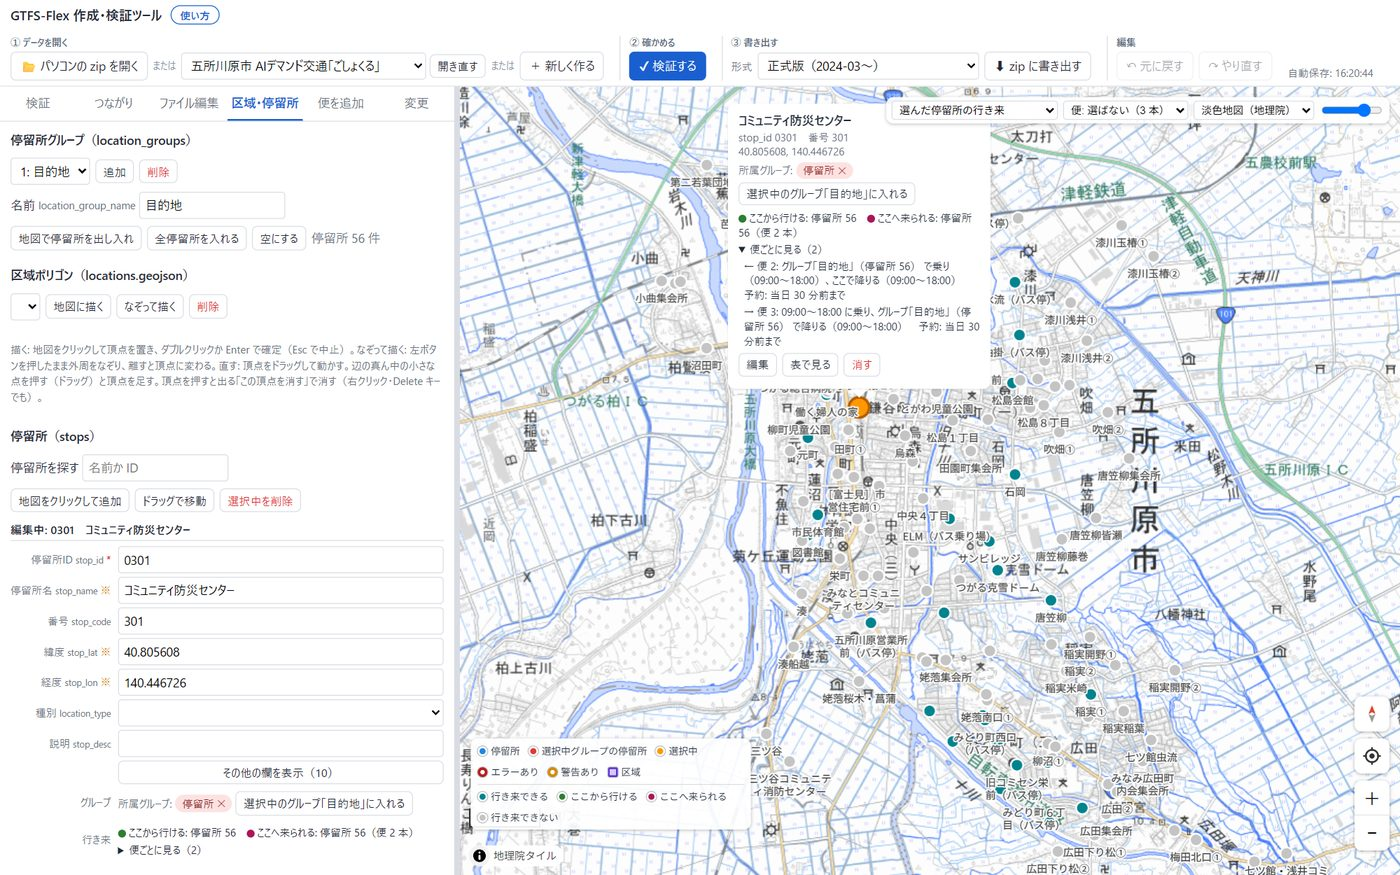
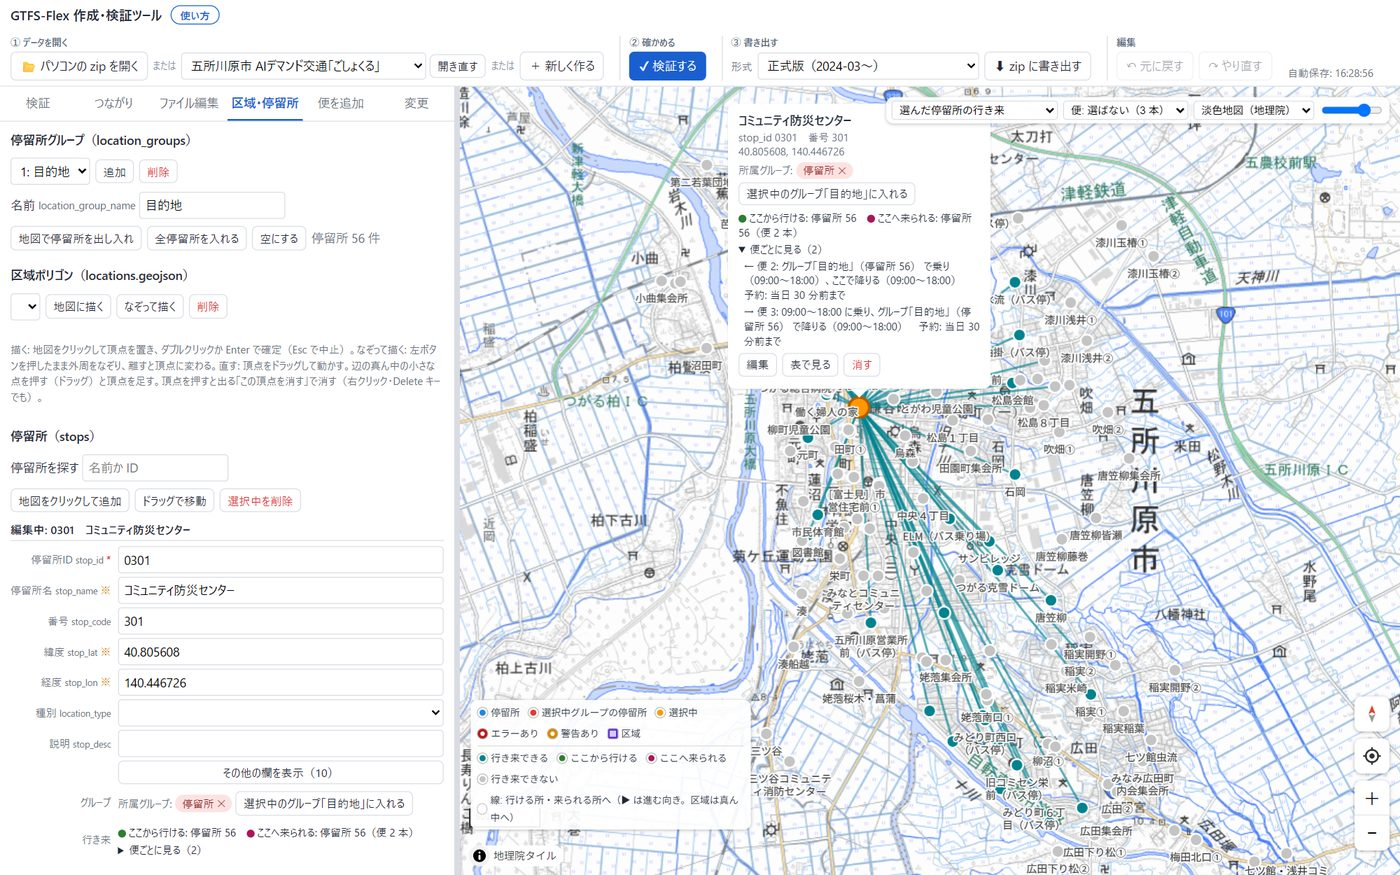
停留所の行き来を線で出す

Changed region(s): [[0.5836, 0.4011, 0.7679, 0.8949], [0.3379, 0.8023, 0.5529, 0.9566], [0.7371, 0.7097, 0.7679, 0.7406]]

diff --git a/manual.html b/manual.html
@@ -114,8 +114,8 @@ a { color: var(--accent); }
   <figure><img src="manual/13_freehand.jpg" alt="なぞって描いた区域ポリゴン。頂点が並び、選ばれている" loading="lazy"><figcaption>「なぞって描く」で外周をなぞったところ。離すと線が頂点（だいだいの点）に変わり、頂点をドラッグして形を直せます</figcaption></figure>
   <h3>停留所の行き来（どこからどこへ行けるか）</h3>
   <p>地図で停留所を押すと、吹き出しと左の欄に「ここから行ける」「ここへ来られる」停留所と区域の数、使える便の数が出ます。便の行（stop_times.txt）を順に見て、乗れる行から、その後ろの降りられる行へ行けるとして数えます。停留所グループの行はグループに入っている停留所のどれでも、区域ポリゴンの行は区域の中のどこでも、という意味です。区域ポリゴンの中にある停留所は、その区域の行で乗り降りできます。</p>
-  <p>「便ごとに見る」を開くと、便ごとに、乗る時間帯・降りる所・予約の方法が並びます。<span class="btn">地図で色分けする</span> を押すと、地図の停留所が「行き来できる・ここから行けるだけ・ここへ来られるだけ・行き来できない」で色分けされます（地図の右上の選択欄の「選んだ停留所の行き来」と同じ）。グループへの入れ忘れや、行き先にしたい停留所へ行けるかを確かめるのに使えます。</p>
-  <figure><img src="manual/16_reach.jpg" alt="五所川原市の停留所を選び、行き来できる停留所を色分けした地図と吹き出し" loading="lazy"><figcaption>停留所の行き来（五所川原市）。選んだ停留所はグループ「停留所」に入っていて、便でグループ「目的地」の 56 か所と行き来できます。ほかは灰色</figcaption></figure>
+  <p>「便ごとに見る」を開くと、便ごとに、乗る時間帯・降りる所・予約の方法が並びます。<span class="btn">地図で色分けする</span> を押すと、地図の停留所が「行き来できる・ここから行けるだけ・ここへ来られるだけ・行き来できない」で色分けされます（地図の右上の選択欄の「選んだ停留所の行き来」と同じ）。色分けすると、選んだ停留所から行き来できる停留所と区域（区域は真ん中）へ直線も引きます。行けるだけ・来られるだけの線には、進む向きに ▶ が付きます（GTFS-Flex には途中の道筋がないので、線は行き先を結ぶだけです）。グループへの入れ忘れや、行き先にしたい停留所へ行けるかを確かめるのに使えます。</p>
+  <figure><img src="manual/16_reach.jpg" alt="五所川原市の停留所を選び、行き来できる停留所を色分けした地図と吹き出し" loading="lazy"><figcaption>停留所の行き来（五所川原市）。選んだ停留所はグループ「停留所」に入っていて、便でグループ「目的地」の 56 か所と行き来でき、その 56 か所へ線が引かれます。ほかは灰色</figcaption></figure>
   <h3>便（「便を追加」タブ）</h3>
   <p>路線・運行日・乗る所と降りる所（グループ・区域・停留所）・乗り降りできる時間帯・予約ルールを選んで足します。区域の中で乗り降りする便は、ガイドラインの形（乗る行と降りる行の 2 行）で作ります。</p>
   <figure><img src="manual/08_trips.jpg" alt="便を追加タブ" loading="lazy"><figcaption>便を追加</figcaption></figure>

diff --git a/js/map.js b/js/map.js
@@ -47,6 +47,10 @@
       // 選んだ便の経路（停留所を順に結ぶ線。shapes.txt があればその形）
       map.addSource('trip-line', { type: 'geojson', data: empty() });
       map.addLayer({ id: 'trip-line', type: 'line', source: 'trip-line', layout: { 'line-join': 'round', 'line-cap': 'round' }, paint: { 'line-color': '#00897b', 'line-width': 4, 'line-opacity': 0.8 } });
+      // 選んだ停留所から行ける所・来られる所へ結ぶ直線（Flex には道筋がないので、行き先を結ぶだけ）。▶ は進む向き（行き来できる線には付けない）
+      map.addSource('reach-lines', { type: 'geojson', data: empty() });
+      map.addLayer({ id: 'reach-line', type: 'line', source: 'reach-lines', layout: { 'line-cap': 'round' }, paint: { 'line-color': ['get', 'color'], 'line-width': ['interpolate', ['linear'], ['zoom'], 10, 1.5, 15, 3], 'line-opacity': 0.65 } });
+      map.addLayer({ id: 'reach-arrow', type: 'symbol', source: 'reach-lines', filter: ['!=', ['get', 'kind'], 'both'], layout: { 'symbol-placement': 'line-center', 'text-field': '▶', 'text-size': 15, 'text-font': ['NotoSansCJKjp-Regular'], 'text-keep-upright': false, 'text-rotation-alignment': 'map', 'text-allow-overlap': true, 'text-ignore-placement': true }, paint: { 'text-color': ['get', 'color'], 'text-halo-color': '#fff', 'text-halo-width': 1 } });
       map.addLayer({ id: 'loc-label', type: 'symbol', source: 'locations', layout: { 'text-field': ['coalesce', ['get', 'stop_name'], ['get', '_id']], 'text-size': 13, 'text-font': ['NotoSansCJKjp-Regular'] }, paint: { 'text-color': '#1a3f8a', 'text-halo-color': '#fff', 'text-halo-width': 1.5 } });
       map.addSource('draft', { type: 'geojson', data: empty() });
       map.addLayer({ id: 'draft-fill', type: 'fill', source: 'draft', paint: { 'fill-color': '#f0a030', 'fill-opacity': 0.15 } });
@@ -297,6 +301,7 @@
       navigator.geolocation.getCurrentPosition(p => map.easeTo({ center: [p.coords.longitude, p.coords.latitude], zoom: Math.max(map.getZoom(), 14) }), () => { if (H.onLocateFallback) H.onLocateFallback(); });
     };
 
+    function setReachLines(feats) { const src = map.getSource('reach-lines'); if (src) src.setData({ type: 'FeatureCollection', features: feats || [] }); }
     function setTripLine(coords) { const src = map.getSource('trip-line'); if (src) src.setData(coords && coords.length > 1 ? { type: 'FeatureCollection', features: [{ type: 'Feature', properties: {}, geometry: { type: 'LineString', coordinates: coords } }] } : empty()); }
     // 凡例の下に足す説明（グループの色、選んだ便の乗車・降車の色）
     const legendExtra = document.createElement('div'); legendExtra.className = 'legend-extra'; legend.appendChild(legendExtra);
@@ -320,7 +325,7 @@
       map.on('touchmove', tm);
       map.once('touchend', () => { map.off('touchmove', tm); fhEnd(); });
     });
-    return { map, state, setMode, setStops, setLocations, setTripLine, setLegendExtra, fitTo, finishDraw, drawPath, getMode: () => state.mode, top };
+    return { map, state, setMode, setStops, setLocations, setTripLine, setReachLines, setLegendExtra, fitTo, finishDraw, drawPath, getMode: () => state.mode, top };
   }
 
   window.FlexMap = { create };

diff --git a/js/app.js b/js/app.js
@@ -122,6 +122,20 @@
       for (const r of all) { const t = rc.to.has(r.stop_id), f = rc.from.has(r.stop_id); colorOf.set(r.stop_id, REACH_COLOR[t && f ? 'both' : t ? 'to' : f ? 'from' : 'none']); }
       res.colorOf = colorOf; res.focus = new Set([...rc.toZones, ...rc.fromZones, ...[...rc.inZone].filter(id => rc.legs.some(l => l.via === 'zone' && String(l.at.location_id) === id))]);
       res.legend = [[REACH_COLOR.both, '行き来できる'], [REACH_COLOR.to, 'ここから行ける'], [REACH_COLOR.from, 'ここへ来られる'], [REACH_COLOR.none, '行き来できない']];
+      // 選んだ停留所から、行き来できる停留所・区域へ直線を引く（▶ は進む向き。来られるだけの線は選んだ停留所へ向く）
+      const me = all.find(r => r.stop_id === S.stop), lines = [];
+      if (me && okLL(me)) {
+        const p0 = [+me.stop_lon, +me.stop_lat];
+        const line = (p, kind) => lines.push({ type: 'Feature', properties: { kind, color: REACH_COLOR[kind] }, geometry: { type: 'LineString', coordinates: kind === 'from' ? [p, p0] : [p0, p] } });
+        for (const r of all) { if (r.stop_id === S.stop || !okLL(r)) continue; const t = rc.to.has(r.stop_id), f = rc.from.has(r.stop_id); if (t || f) line([+r.stop_lon, +r.stop_lat], t && f ? 'both' : t ? 'to' : 'from'); }
+        for (const z of ((S.feed.locations && S.feed.locations.features) || [])) {
+          const id = String(z.id), t = rc.toZones.has(id), f = rc.fromZones.has(id); if (!t && !f) continue;
+          const ring = z.geometry && (z.geometry.type === 'Polygon' ? z.geometry.coordinates[0] : z.geometry.type === 'MultiPolygon' ? z.geometry.coordinates[0][0] : null); if (!ring || !ring.length) continue;
+          const xs = ring.map(q => q[0]), ys = ring.map(q => q[1]); line([(Math.min(...xs) + Math.max(...xs)) / 2, (Math.min(...ys) + Math.max(...ys)) / 2], t && f ? 'both' : t ? 'to' : 'from');
+        }
+      }
+      res.reachLines = lines;
+      if (lines.length) res.legend.push(['transparent', `線: 行ける所・来られる所へ（▶ は進む向き。区域は真ん中へ）`]);
       return res;
     }
     if (v === 'grouped') {
@@ -141,7 +155,7 @@
   function stopFeatures() {
     const v = stopView(); lastView = v;
     const feats = M.setStops(v.rows, memberSet(S.group), S.stop, S.stopIssues, { colorOf: v.colorOf, seqOf: v.seqOf });
-    M.setTripLine(v.line); M.setLegendExtra(v.legend);
+    M.setTripLine(v.line); M.setReachLines(v.reachLines); M.setLegendExtra(v.legend);
     return feats;
   }
   // 地図の右上: 地図に出す停留所と便を選ぶ

diff --git a/index.html b/index.html
@@ -5,7 +5,7 @@
 <meta name="viewport" content="width=device-width, initial-scale=1">
 <title>GTFS-Flex 作成・検証ツール</title>
 <link rel="stylesheet" href="https://cdnjs.cloudflare.com/ajax/libs/maplibre-gl/4.7.1/maplibre-gl.min.css">
-<link rel="stylesheet" href="css/style.css?v=6ff93c8-mvc2iku7">
+<link rel="stylesheet" href="css/style.css?v=50b0444-mvc2spwf">
 </head>
 <body>
 <header class="topbar">
@@ -228,15 +228,15 @@
 
 <script src="https://cdnjs.cloudflare.com/ajax/libs/jszip/3.10.1/jszip.min.js"></script>
 <script src="https://cdnjs.cloudflare.com/ajax/libs/maplibre-gl/4.7.1/maplibre-gl.min.js"></script>
-<script src="js/spec.js?v=6ff93c8-mvc2iku7"></script>
-<script src="js/gtfs.js?v=6ff93c8-mvc2iku7"></script>
-<script src="js/versions.js?v=6ff93c8-mvc2iku7"></script>
-<script src="js/validate.js?v=6ff93c8-mvc2iku7"></script>
-<script src="js/map.js?v=6ff93c8-mvc2iku7"></script>
-<script src="js/odpt.js?v=6ff93c8-mvc2iku7"></script>
-<script src="js/store.js?v=6ff93c8-mvc2iku7"></script>
-<script src="js/diff.js?v=6ff93c8-mvc2iku7"></script>
-<script src="js/graph.js?v=6ff93c8-mvc2iku7"></script>
-<script src="js/app.js?v=6ff93c8-mvc2iku7"></script>
+<script src="js/spec.js?v=50b0444-mvc2spwf"></script>
+<script src="js/gtfs.js?v=50b0444-mvc2spwf"></script>
+<script src="js/versions.js?v=50b0444-mvc2spwf"></script>
+<script src="js/validate.js?v=50b0444-mvc2spwf"></script>
+<script src="js/map.js?v=50b0444-mvc2spwf"></script>
+<script src="js/odpt.js?v=50b0444-mvc2spwf"></script>
+<script src="js/store.js?v=50b0444-mvc2spwf"></script>
+<script src="js/diff.js?v=50b0444-mvc2spwf"></script>
+<script src="js/graph.js?v=50b0444-mvc2spwf"></script>
+<script src="js/app.js?v=50b0444-mvc2spwf"></script>
 </body>
 </html>

diff --git a/README.md b/README.md
@@ -9,4 +9,4 @@ https://tyra0119.github.io/pj_gtfs/ （使い方: https://tyra0119.github.io/pj_
 - サンプル: 公共交通オープンデータセンター（CC BY 4.0）
 - 準拠: GTFS Schedule 仕様（gtfs.org）、国土交通省 COMmmmONS「GTFS-JP 4.0 ガイドライン」第3部 Flex 拡張
 
-版: 6ff93c8-mvc2iku7
+版: 50b0444-mvc2spwf
